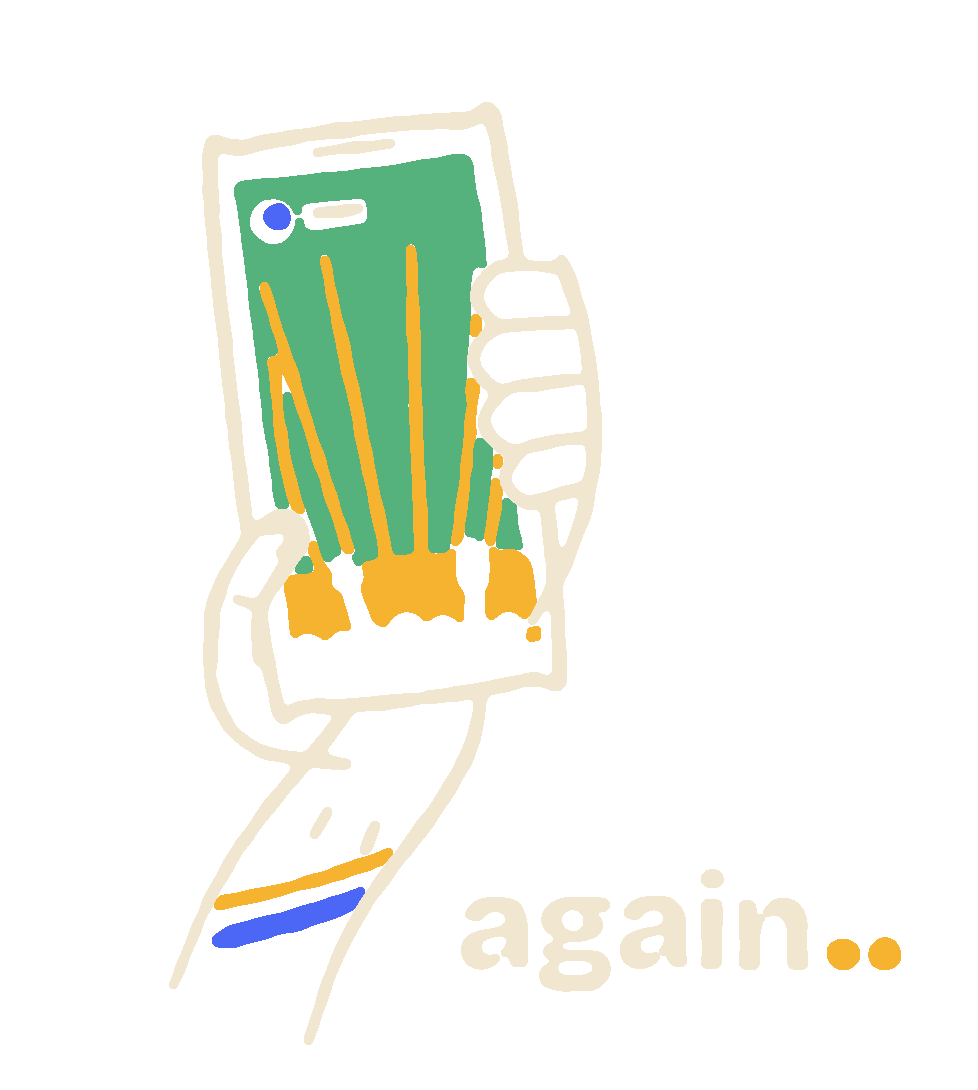
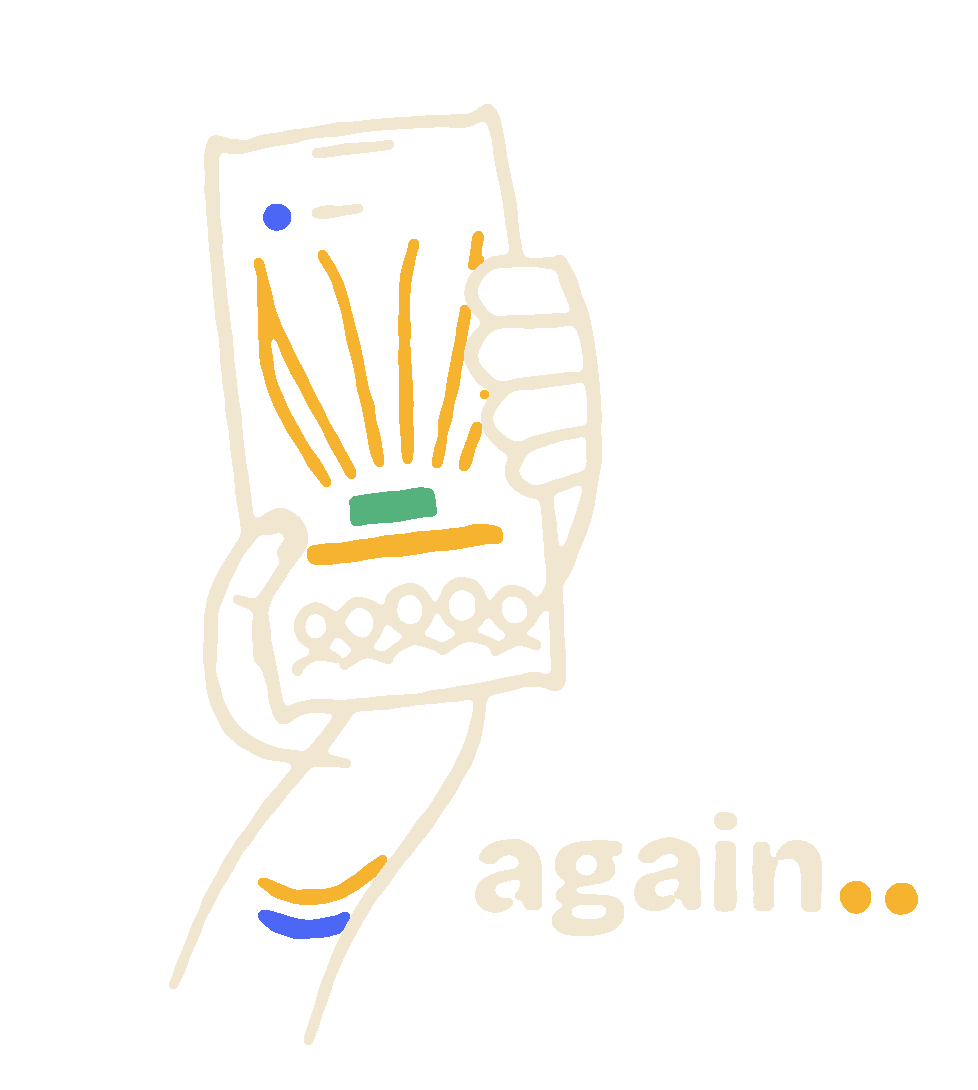
Fronts c: two fronts, 01 filming (left chest, dark screen with a lit stage and beams, the hand drawn properly) and 02 drawn (centre chest, fred again.. in the back's pen and loose spot screens); critic pass and rework done

diff --git a/pipeline/art/fronts/c/01-filming/gen.py b/pipeline/art/fronts/c/01-filming/gen.py
@@ -1,6 +1,6 @@
 #!/usr/bin/env python3
 """
-01 crowd, front 01: "filming". Left chest, about 10 cm.
+01 crowd, front 01: "filming". Left chest, about 8 cm.
 The one thing everyone at the show did, drawn once and drawn properly: a hand holding a phone up over the crowd, the
 screen toward us, and on it the drop as a phone sees it from far back: a handful of marigold beams going up off a
 stage too small to see, the black line of heads in front, the rec dot on. The forearm runs down out of the hand and
@@ -30,14 +30,12 @@ sp, L, R = a.tube([T(-1, 18), T(-2, 33), (31, 95), (26, 108)], [14.0, 13.6, 14.5
 a.knock(L + R[::-1])
 a.ink(L[2:], LW, a0=0.8, a1=9.0, pv=0.14)
 a.ink(R[2:], LW, a0=0.8, a1=7.0, pv=0.14)
-a.line([(33.4, 89.0), (34.8, 86.4)], LD, wob=0.1, trem=0, a0=0.5, a1=1.2)          # tendons at the wrist
-a.line([(38.6, 90.6), (39.8, 87.9)], LD, wob=0.1, trem=0, a0=0.5, a1=1.2)
 ARM = L + R[::-1]
 for k, (col, wd) in enumerate((('Y', 1.6), ('B', 2.3))):                         # a thread and a band round the wrist
     y = 92.0 + k * 3.9
     def paint(t, y=y, k=k, col=col, wd=wd):
-        t.line([(22 + k * 1.0, y + 4.2), (34, y + 1.1), (46 - k * 0.6, y - 3.0)], wd, layer=col, wob=0.1, trem=0.06,
-               a0=0.3, a1=0.3, pv=0.1)
+        t.line([(27.4 + k * 0.6, y + 1.6), (31.0, y + 3.2), (36.0, y + 2.6), (40.6 - k * 0.5, y - 1.0)], wd, layer=col,
+               wob=0.08, trem=0.05, a0=0.3, a1=0.3, pv=0.1)
     a.masked(ARM, col, paint)
 
 # ------------------------------------------------------------------ the phone: steady (a made object), the hand round it wobbles
@@ -48,62 +46,44 @@ body = a.hand([T(u, v) for u, v in corners], closed=True, wob=0.05, trem=0.03, s
 a.knock(body)
 SI = 2.7                                            # the bezel
 scr = [(-PW / 2 + SI, -PH / 2 + 3.3), (PW / 2 - SI, -PH / 2 + 3.3), (PW / 2 - SI, PH / 2 - 3.3), (-PW / 2 + SI, PH / 2 - 3.3)]
-a.blob([T(u, v) for u, v in scr], 'G', scale=(0.995, 1.005), jit=0.006, shift=0.15, gap=0.0, n=44)
 
-# on the screen: the drop, as a phone sees it from row forty
-# the beams: from lamps hidden behind the heads, fanning up and out (each a brush stroke that lifts off at the top);
-# the two middle ones nearly upright, the outer ones leaning away, none crossing: what a phone catches at the drop
-SB = 17.0                                           # where the lamps are (v), behind the heads
-beams = [(-8.6, -0.36, 26), (-5.2, -0.20, 33), (-1.8, -0.05, 37), (1.6, 0.07, 36), (5.0, 0.22, 32), (8.4, 0.40, 26)]
+# on the screen, which is dark like the night it films: the drop, as a phone sees it from row forty.
+# a small lit stage low on the screen (its LED wall the one sliver of green), beams fanning up off its roof,
+# and the heads in front as one cream line, one hand up
+SV = 12.5                                           # the deck's top (v)
+deck = [T(-10.4, SV), T(10.4, SV - 0.1), T(10.6, SV + 2.2), T(-10.5, SV + 2.3)]
+a.blob(deck, 'Y', scale=(0.99, 1.01), jit=0.015, shift=0.08, gap=0.0, n=24)
+wall = [T(-4.6, SV - 4.4), T(4.6, SV - 4.5), T(4.7, SV - 1.2), T(-4.6, SV - 1.1)]
+a.blob(wall, 'G', scale=(0.99, 1.01), jit=0.015, shift=0.12, gap=0.0, n=24)
+# the beams: off the roof, fanning up and out, brush strokes that lift off near the top of the screen
+beams = [(-6.6, -0.58, 26), (-4.2, -0.32, 32), (-1.4, -0.09, 35), (1.4, 0.10, 35), (4.2, 0.33, 32), (6.6, 0.60, 26)]
 for u0, ang, ln in beams:
     ang += rng.gauss(0, 0.015)
+    v0 = SV - 6.8 + abs(u0) * 0.25
     pts = []
     for f in (0.0, 0.5, 1.0):
-        uu, vv = u0 + math.sin(ang) * ln * f, SB - math.cos(ang) * ln * f
-        uu = max(-PW / 2 + SI + 1.4, min(PW / 2 - SI - 1.4, uu))
-        vv = max(-PH / 2 + 12.5, vv)
+        uu, vv = u0 + math.sin(ang) * (ln * f + 1.2), v0 - math.cos(ang) * (ln * f + 1.2)
+        uu = max(-PW / 2 + SI + 1.0, min(PW / 2 - SI - 1.0, uu))
+        vv = max(-PH / 2 + 12.0, vv)
         pts.append(T(uu, vv))
-    a.line(pts, 1.3, layer='Y', wob=0.04, trem=0.02, a0=0.4, a1=7.0, pv=0.08)
-# the stage's light behind the heads: one flat marigold band the heads stand against (the deck's glare)
-glow = [T(-PW / 2 + SI - 0.4, SB - 1.2), T(0, SB - 2.2), T(PW / 2 - SI + 0.4, SB - 1.2), T(PW / 2 - SI + 0.4, PH / 2 - 3.0),
-        T(-PW / 2 + SI - 0.4, PH / 2 - 3.0)]
-a.blob(glow, 'Y', scale=(1.0, 1.0), jit=0.01, shift=0.05, gap=0.0, n=30)
-a.knock([T(-PW / 2 - 1, PH / 2 - 3.3), T(PW / 2 + 1, PH / 2 - 3.3), T(PW / 2 + 1, PH / 2 + 3), T(-PW / 2 - 1, PH / 2 + 3)],
-        layers=('Y',))
-
-
-# the heads in front: one black silhouette across the bottom of the screen (the shirt showing through the green),
-# heads of different sizes, two pairs of arms up
-def hole(pts, layers=('G', 'Y')):
-    p = a.hand([T(u, v) for u, v in pts], closed=True, wob=0.05, trem=0.02, step=0.3)
-    for l in layers:
-        a.D[l].polygon(h.P(p), fill=0)
-
-
-VH = 24.0                                           # where the heads' crowns are (v)
-crowd = [(-PW / 2 + SI - 0.6, PH / 2 - 2.0), (-PW / 2 + SI - 0.6, VH + 1.8)]
-u = -PW / 2 + SI - 0.6
-heads = []
+    a.line(pts, 1.25, layer='Y', wob=0.03, trem=0.02, a0=0.4, a1=8.0, pv=0.08)
+# the heads in front: one cream line of heads and shoulders across the screen, one hand up holding its own phone
+VH = 21.6
+heads, u = [], -PW / 2 + SI + 1.0
 while u < PW / 2 - SI - 3.0:
-    hr = rng.uniform(1.7, 2.3)
-    heads.append((u + hr, VH + rng.uniform(-0.8, 0.8), hr))
-    u += hr * 2.0 - rng.uniform(0.1, 0.6)
-for hx, hy, hr in heads:                      # each head a round, a little taller than wide, on its shoulders
-    head = [(hx + hr * math.cos(q / 12 * math.tau), hy + hr * 1.1 * math.sin(q / 12 * math.tau)) for q in range(12)]
-    hole(head)
-crowd += [(PW / 2 - SI + 0.6, VH + 1.8), (PW / 2 - SI + 0.6, PH / 2 - 2.0)]
-hole(crowd)                                   # the shoulders, one dark mass under the heads
-hole([(-5.6, VH + 1.0), (-7.2, VH - 7.0), (-5.6, VH - 7.4), (-4.0, VH + 0.6)])          # one arm up, a fist
-hole([(-7.9, VH - 6.6), (-7.4, VH - 9.4), (-5.2, VH - 9.6), (-4.9, VH - 6.8)])
-hole([(5.2, VH + 1.0), (6.2, VH - 5.6), (7.8, VH - 5.4), (7.0, VH + 1.0)])             # one arm up with a phone
-hole([(5.4, VH - 5.0), (5.8, VH - 9.6), (8.6, VH - 9.6), (8.3, VH - 5.0)])
+    hr = rng.uniform(1.75, 2.15)
+    heads.append((u + hr, VH + rng.uniform(-0.9, 0.9), hr))
+    u += hr * 2.0 + rng.uniform(0.9, 1.6)
+shoulders = [T(-PW / 2 + SI + 0.2, VH + 4.6)]
+for hx, hy, hr in heads:               # each head a small closed round in the cream line, its shoulders under it
+    ring = [T(hx + hr * math.cos(q / 9 * math.tau), hy + hr * 1.1 * math.sin(q / 9 * math.tau)) for q in range(9)]
+    a.ink(a.hand(ring, closed=True, wob=0.06, trem=0.02, step=0.25), 1.12, closed=True, a0=0.4, a1=0.5, pv=0.06)
+    shoulders += [T(hx - hr * 1.5, hy + hr * 1.1 + 2.4), T(hx, hy + hr * 1.1 + 1.0), T(hx + hr * 1.5, hy + hr * 1.1 + 2.4)]
+shoulders.append(T(PW / 2 - SI - 0.2, VH + 4.6))
+a.line(shoulders, 1.15, wob=0.04, trem=0.02, a0=0.4, a1=0.6, pv=0.06)
 
 # the rec dot, top left, blue, with its running time as one short cream tick beside it
-a.knock([T(-PW / 2 + 6.4 + 2.5 * math.cos(k / 10 * math.tau), -PH / 2 + 8.0 + 2.5 * math.sin(k / 10 * math.tau)) for k in range(10)],
-        layers=('G',))
 pen.disc(a, *T(-PW / 2 + 6.4, -PH / 2 + 8.0), 1.5, 'B', rng=rng)
-a.knock([T(-PW / 2 + 9.6, -PH / 2 + 6.6), T(-PW / 2 + 16.4, -PH / 2 + 6.6), T(-PW / 2 + 16.4, -PH / 2 + 9.4),
-         T(-PW / 2 + 9.6, -PH / 2 + 9.4)], layers=('G',))
 a.line([T(-PW / 2 + 10.6, -PH / 2 + 8.0), T(-PW / 2 + 15.4, -PH / 2 + 8.0)], 1.25, wob=0.03, trem=0, a0=0.4, a1=0.5)
 # the camera slit at the top of the bezel, then the phone's edge over everything
 a.line([T(-4.0, -PH / 2 + 1.6), T(4.0, -PH / 2 + 1.6)], 1.15, wob=0.03, trem=0, a0=0.4, a1=0.6)
@@ -115,7 +95,7 @@ a.ink(body[k0:] + body[1:k0 + 1], LW, a0=0.6, a1=0.6, pv=0.1)
 # four pads curled round the phone from behind, nails toward us, each overlapping the one below; drawn top to bottom
 # so each lower finger's knock cuts the line of the one above it cleanly
 E = PW / 2
-fingers = [(-10.6, 4.4, 3.1, 0.10), (-4.2, 5.6, 3.3, 0.04), (2.2, 5.2, 3.2, -0.03), (8.2, 3.8, 2.7, -0.10)]
+fingers = [(-11.0, 5.0, 3.2, 0.12), (-4.5, 5.8, 3.3, 0.05), (1.9, 4.9, 3.1, -0.04), (7.5, 3.0, 2.4, -0.14)]
 for k, (v, ln, hf, tw) in enumerate(fingers):
     def F(du, dv):
         return T(E + du, v + dv + du * tw)
@@ -143,7 +123,7 @@ a.line([T(-E - 6.4, 25.0), T(-E - 5.6, 30.0), T(-E - 2.0, 34.0), T(-8.6, 36.5)],
 
 # ------------------------------------------------------------------ the word, beside the forearm
 S = 14.0
-x0, y0 = 48.5, 103.0
+x0, y0 = 50.0, 97.0
 wa = pen.word(a, 'line', 'again', 'bric', S, x0, y0, weight=800, rng=rng, jit=0.02, turn=0.012)
 pen.dots(a, 'Y', x0 + wa + 0.9, y0, S, rng=rng)
 

diff --git a/pipeline/art/fronts/c/02-drawn/gen.py b/pipeline/art/fronts/c/02-drawn/gen.py
@@ -1,33 +1,50 @@
 #!/usr/bin/env python3
 """
-01 crowd, front 08: "drawn". Centre chest, about 20 cm.
-fred again.. drawn the way the back is drawn: every letter's outline traced from the lineup's face and then redrawn
-with the back's cream pen, wobbling and pressing, and the back's spot screens laid under it loose and off register:
-fred in green, again in marigold, the two dots in blue. Nothing taken from the back's picture, only its hand.
+01 crowd, front 02: "drawn". Centre chest, about 21 cm.
+fred again.. drawn the way the back is drawn: every letter's outline traced from the lineup's face and redrawn with
+the back's cream pen, and the back's spot screens laid under it loose and off register, each letter's screen slipping
+its own way. The colours wander across the word the way they wander across the crowd on the back (green, marigold,
+two letters left bare), and one of the two dots is blue. Under it, small, the two nights.
+Nothing taken from the back's picture, only its hand.
     R=1 python3 gen.py   draft (4.7 px/mm)      python3 gen.py   final (94 px/cm)
 """
 import math, os, sys
 sys.path.insert(0, os.path.join(os.path.dirname(os.path.abspath(__file__)), '..', 'lib'))
 import pen
 
-WMM, HMM = 222, 58
+WMM, HMM = 228, 76
 h, a = pen.boot(WMM, HMM, seed=1808, layers=('line', 'G', 'Y', 'B'))
 rng = a.rng
 S = 34.0
-TR = 1.3
+KW = dict(wob=0.07, trem=0.05, every=2.0, shift_jit=0.04, fill_grow=0.0,
+          min_loop=2.0, res=5.0, close={'g': 2.4}, weight=800, lw=1.15, rng=rng)
+TR = 2.2
 x0, y0 = 8.0, 41.0
-w1 = pen.letters(a, 'line', 'fred', 'bric', S, x0, y0, weight=760, fill='G', rng=rng, lw=1.25, track=TR)
-sp = pen.width('fred ', 'bric', S, weight=760) - pen.width('fred', 'bric', S, weight=760) + TR
-w2 = pen.letters(a, 'line', 'again', 'bric', S, x0 + w1 + sp, y0, weight=760, fill='Y', rng=rng, lw=1.25, track=TR)
-# the two dots: a blue screen under a cream ring, like the letters
+w1 = pen.letters(a, 'line', 'fred', 'bric', S, x0, y0, fill=['G', '-', 'Y', 'G'], track=TR,
+                 fill_shift=[(0.25, 1.9), (0, 0), (-0.2, 1.75), (0.15, -1.8)], **KW)
+sp = (pen.width('fred ', 'bric', S, weight=800) - pen.width('fred', 'bric', S, weight=800)) * 0.7 + TR
+x1 = x0 + w1 + sp
+w2 = pen.letters(a, 'line', 'again', 'bric', S, x1, y0, fill=['Y', 'G', 'Y', '-', 'Y'], track=TR,
+                 fill_shift=[(0.2, 1.85), (-0.25, 1.95), (0.1, -1.75), (0, 0), (0.25, 1.8)], **KW)
+# the two dots: cream rings, the first with a blue screen under it, the second bare
 rr = 0.125 * S
 for k in range(2):
-    cx = x0 + w1 + sp + w2 + 2.4 + rr + k * 0.34 * S
+    cx = x1 + w2 + 2.4 + rr + k * 0.34 * S
     cy = y0 - rr * 1.02 + rng.gauss(0, 0.15)
-    pen.disc(a, cx + 0.9, cy + 0.7, rr - 0.3, 'B', rng=rng)
-    ring = [(cx + rr * math.cos(t / 10 * math.tau), cy + rr * math.sin(t / 10 * math.tau)) for t in range(10)]
-    p = a.hand(ring, closed=True, wob=0.15, trem=0.1, step=0.35)
-    a.ink(p, 1.25, layer='line', closed=True, a0=0.6, a1=1.2, pv=0.14)
+    if k == 0:                     # a cream ring with the blue screen slipped down under it
+        pen.disc(a, cx + 0.2, cy + 1.85, rr, 'B', rng=rng)
+        ring = [(cx + rr * math.cos(t / 10 * math.tau), cy + rr * math.sin(t / 10 * math.tau)) for t in range(10)]
+        p = a.hand(ring, closed=True, wob=0.08, trem=0.05, step=0.35)
+        a.ink(p, 1.15, layer='line', closed=True, a0=0.6, a1=1.2, pv=0.14)
+    else:                          # the last dot solid cream, the pen pressed down
+        pen.disc(a, cx, cy, rr, 'line', rng=rng, wob=0.02)
+right = x1 + w2 + 2.4 + 2 * rr + 0.34 * S
+# the second line: the two nights, small, in the same lineup face, set under the right half
+NS = 7.2
+txt = 'mumbai · bengaluru · december 2026'
+wn = pen.width(txt, 'bric', NS, weight=700, track=0.25)
+pen.word(a, 'line', txt, 'bric', NS, right - wn, y0 + 20.0, weight=700, track=0.25, rng=rng, jit=0.03, turn=0.02,
+         bold=0.1)
 
 pen.save(a, __file__, order=('G', 'Y', 'B', 'line'), crops=[(40, 30), (150, 30)],
          placement={'where': 'centre chest', 'top_cm': 11})

diff --git a/pipeline/art/fronts/c/lib/pen.py b/pipeline/art/fronts/c/lib/pen.py
@@ -258,7 +258,8 @@ def contours(mask):
 
 
 def letters(art, layer, txt, fname, size_mm, x, y, weight=None, lw=1.4, fill=None, fill_shift=(0.9, 0.7), res=2.5,
-            rng=None, lang=None, jit=0.025, turn=0.015, wob=0.16, every=1.4, track=0.0, fill_grow=-0.3):
+            rng=None, lang=None, jit=0.025, turn=0.015, wob=0.16, every=1.4, track=0.0, fill_grow=-0.3, trem=0.12,
+            shift_jit=0.25, min_loop=0.0, close=None, shift_turn=0.0):
     """draw txt as hand-drawn outline letters: each glyph's outline (and its counters) traced from the font, then
     redrawn with the pen, wobbling and pressing; `fill` = a spot layer (or a list, one per glyph) laid under it,
     loose and off register like the back's spot screens. Baseline-left at (x, y) mm. Returns the width in mm."""
@@ -281,6 +282,9 @@ def letters(art, layer, txt, fname, size_mm, x, y, weight=None, lw=1.4, fill=Non
         ox, oy = pad - bb[0], pad - bb[1]
         ImageDraw.Draw(m).text((ox, oy), ch, font=f, fill=255, anchor='ls', **kw)
         m = m.filter(ImageFilter.GaussianBlur(0.6)).point(lambda p: 255 if p > 127 else 0)
+        if close and ch in close:                 # close narrow gaps (mm) so near-touching strokes trace as one form
+            kk = int(close[ch] * res) | 1
+            m = m.filter(ImageFilter.MaxFilter(kk)).filter(ImageFilter.MinFilter(kk))
         dy = rng.gauss(0, jit * size_mm * 0.5)
         r = rng.gauss(0, turn * 0.6)
         gx, gy = x + dx, y + dy
@@ -289,11 +293,17 @@ def letters(art, layer, txt, fname, size_mm, x, y, weight=None, lw=1.4, fill=Non
         def to_mm(px, py):
             u, v = (px - ox) / res, (py - oy) / res
             return (gx + u * ca - v * sa, gy + u * sa + v * ca)
-        loops = contours(np.asarray(m))
+        loops = [lp for lp in contours(np.asarray(m)) if abs(_area(lp)) / res ** 2 >= min_loop]
         layer_fill = fill[i % len(fill)] if isinstance(fill, (list, tuple)) else fill
+        if layer_fill == '-':
+            layer_fill = None
         if layer_fill:
             # the spot screen: the glyph's own shape, shifted off register and grown or shrunk a hair
-            sx, sy = fill_shift[0] + rng.gauss(0, 0.25), fill_shift[1] + rng.gauss(0, 0.25)
+            fs = fill_shift[i % len(fill_shift)] if isinstance(fill_shift[0], (list, tuple)) else fill_shift
+            sx, sy = fs[0] + rng.gauss(0, shift_jit), fs[1] + rng.gauss(0, shift_jit)
+            if shift_turn:                        # each screen slips its own way (turned up to shift_turn radians)
+                q = rng.uniform(-shift_turn, shift_turn)
+                sx, sy = sx * math.cos(q) - sy * math.sin(q), sx * math.sin(q) + sy * math.cos(q)
             mm_ = Image.new('L', (art.L[layer_fill].width, art.L[layer_fill].height), 0)
             dr = ImageDraw.Draw(mm_)
             sgn = math.copysign(1, _area(max(loops, key=lambda q: abs(_area(q))))) if loops else 1
@@ -314,7 +324,7 @@ def letters(art, layer, txt, fname, size_mm, x, y, weight=None, lw=1.4, fill=Non
             L = h.cumlen(pts)[-1]
             n = max(6, int(L / every))
             ctrl = h.resample(pts + [pts[0]], n)
-            p = art.hand(ctrl, closed=True, wob=wob, trem=0.12, rng=rng, step=0.35)
+            p = art.hand(ctrl, closed=True, wob=wob, trem=trem, rng=rng, step=0.35)
             art.ink(p, lw, layer=layer, closed=True, rng=rng, a0=0.6, a1=1.2, pv=0.14, close_frac=rng.uniform(0.98, 1.03))
     return f.getlength(txt, **kw) / res + track * (len(txt) - 1)
 

diff --git a/pipeline/art/fronts/c/01-filming/notes.md b/pipeline/art/fronts/c/01-filming/notes.md
@@ -1,15 +1,24 @@
-# 01 filming: left chest, about 10 cm (work in progress)
+# 01 filming: left chest, about 8 cm
 
-**Idea.** What everyone did at the show, drawn once and properly: a hand holding a phone up, the screen toward us,
-and on it the drop as a phone sees it from far back: marigold beams going up off a stage too small to see, the stage
-light behind a dark line of heads, the blue rec dot on. The forearm runs down out of the hand with a marigold thread
-and a blue band at the wrist; again.. sits beside it, its dots in the beams' marigold.
+**Brief.** What everyone at the show did, drawn once and properly. A hand holds a phone up, screen toward us. The
+screen is dark like the night it films. On it the drop, as a phone sees it from far back: a small lit stage (a
+marigold deck, its LED wall the one sliver of green), six marigold beams fanning up off it, and a row of heads in
+front drawn as small cream rounds on a shoulder line. A blue rec dot and a cream timer tick sit top left. The hand is
+drawn properly: four fingers curled round the right edge (tapering, the little finger short and tucked), a thumb on
+the glass with its nail, and the palm's edge running down into the forearm. The forearm wears a marigold thread and a
+blue band. The drawing stops partway down the arm, and again.. sits beside it with its two dots in the beams' marigold.
 
-**With the back.** The same cream pen and loose green, marigold and blue screens as the back's crowd, but one object
-and one word instead of a crowd. It takes the liked phone idea and drops the busy stage drawing.
+**With the back.** The same cream pen and loose spot screens (green, marigold, blue) as the back's crowd, but one
+object and one word. It takes the owner's liked phone idea and drops the busy, fully drawn stage of the first round.
+The front is the phone in one person's hand; the back is everyone.
 
-**Placement.** Left chest, about 10 cm wide, top about 15 cm under the high shoulder point.
+**Placement.** Left chest, 8.0 cm wide, top about 15 cm under the high shoulder point.
 
-**Weak spots (honest).** The line of heads on the screen still reads blocky at 1:1 (squared marigold between round
-heads). The thumb and palm join is better but still heavy. The fresh critic has not seen this version (it reviewed
-the first-round draft), and the one rework after it has not been done. Passes so far: six.
+**Process.** Seven draw, look, fix passes; one fresh critic; one rework (dark screen instead of a full green one;
+heads as cream rounds; tapering fingers; bands wrapping the wrist; forearm ticks gone; word pulled in closer).
+
+**Weak spots (honest).**
+- again.. is set from the lineup face (Bricolage), not drawn by hand. That keeps the brand mark exact, but it is
+  plainer than the drawing beside it.
+- The leftmost beam bends where it meets the screen's edge.
+- The top right of the piece is open; at 8 cm on the chest that reads as air, not as a gap.

diff --git a/pipeline/art/fronts/c/02-drawn/notes.md b/pipeline/art/fronts/c/02-drawn/notes.md
@@ -1,0 +1,25 @@
+# 02 drawn: centre chest, about 21 cm
+
+**Brief.** fred again.. drawn the way the back is drawn. Every letter's outline is traced from the lineup's face
+(Bricolage, heaviest weight) and redrawn with the back's cream pen, steady with a little press and lift. The back's
+spot screens sit under it loose and off register: each letter's screen slips up or down by about 1.3 mm of visible
+colour, a different amount per letter. Like the crowd on the back, the colours wander across the word: green under
+f, d, the g; marigold under e, both a's, n; r and i left bare. The first dot is a ring with the blue screen slipped
+under it; the last is solid cream. Under the right half, small and set in the same face: mumbai · bengaluru ·
+december 2026.
+
+**With the back.** It takes the back's hand (cream line, loose green / marigold / blue screens, misregistration),
+never its picture. On the chest it reads as the brand's wordmark at arm's length; up close it reads as drawn.
+
+**Placement.** Centre chest, 20.9 cm wide, top about 11 cm under the high shoulder point.
+
+**Process.** Six draw, look, fix passes (the letter tracer built from scratch, the g closed into one form, the slip
+made a clear 1.3 mm so no sub-mm slivers remain); one fresh critic; one rework (colours wander across the word, each
+screen slips its own way up or down, two bare letters, blue on one dot, a tighter word gap, the second line added).
+
+**Weak spots (honest).**
+- The letters are traced from a font, then drawn over; they are not lettered from scratch, so the shapes are the
+  face's, not a hand's. The critic asked for true hand lettering; that would be the next step.
+- The g is closed into a solid form with two counters so it reads cleanly; it is a little heavier than the other
+  letters.
+- A couple of small green bits sit in the d's counter; they pass the 1 mm check, but only just.

diff --git a/pipeline/art/fronts/c/BRAINSTORM.md b/pipeline/art/fronts/c/BRAINSTORM.md
@@ -67,3 +67,18 @@ cleaned with an octagon opening (1 mm strokes survive at any angle) and checked 
 Lettering is set from the lineup's fonts (Bricolage Grotesque for again.., the Noto scripts, Gochi Hand for the
 back's note hand) and then worked by hand: each glyph nudged off the baseline and turned a hair, the edges spread
 like ink on cotton, and the hand-held parts (marker, stamp, weave) drawn with the pen.
+
+## Change: two fronts, not eight
+
+The owner then asked for two fronts, the artist's pick, made as well as possible. The first round of eight drafts
+went to one critic. Its read: the drawn objects (hands especially) and the font-made handwriting were the weak
+point, filming was the most on-brand idea, and the wordmark drawn in the back's own technique tied best to the back.
+The two picked:
+
+- **01 filming**: the liked idea, taken further. The screen is dark like the night, the stage small and lit, and the
+  hand drawn properly.
+- **02 drawn** (was 08): fred again.. drawn in the back's pen and loose spot screens; new, and the closest tie to
+  the back without using its picture.
+
+The other six (holding on, two nights, one line, wristband, tape, stamp) were dropped. Two nights and one line were
+clean but light; the rest failed in the drawing or read as clip-art.

diff --git a/pipeline/art/fronts/c/index.md b/pipeline/art/fronts/c/index.md
@@ -1,4 +1,7 @@
-# 01 crowd: fronts (two, per the owner's change)
+# 01 crowd: fronts
 
-1. **01 filming** (left chest, about 10 cm): a hand holding a phone up, the drop on its screen, again.. beside the wrist. Work in progress: six passes, critic pass and rework still to do.
-2. **02 drawn** (centre chest, about 20 cm): fred again.. drawn in the back's cream pen with loose off-register green, marigold and blue fills. First draft only (gen.py); the critic's fixes are not done yet (specks, the g, a steadier line, less misregistration).
+The owner changed the job from eight fronts to two, the artist's pick, done properly. BRAINSTORM.md holds the 16 ideas
+and the first eight drafts' thinking.
+
+1. **01 filming** (left chest, 8.0 cm): a hand holding a phone up, the drop on its dark screen (a lit stage, marigold beams, a row of heads), again.. beside the forearm.
+2. **02 drawn** (centre chest, 20.9 cm): fred again.. drawn in the back's cream pen over loose off-register green, marigold and blue screens, with mumbai · bengaluru · december 2026 under it.
